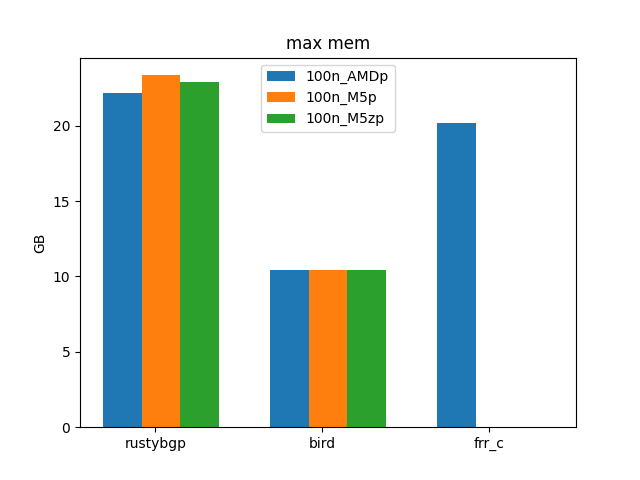
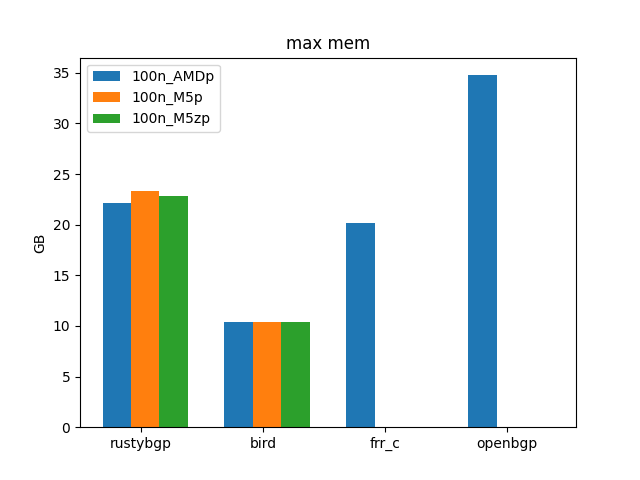
updated with openbgpd and bird at 300 for bgp5 post;

diff --git a/_drafts/2021-10-101-bgp-perf5-1000-internet-neighbors.md b/_drafts/2021-10-101-bgp-perf5-1000-internet-neighbors.md
@@ -46,6 +46,10 @@ BIRD
 
 ![prefixes received at monitor](/assets/images/2021-10-bgp-5/bird_bgpdump2_800000_100_mon_received.png)
 
+OpenBGPD
+
+![prefixes received at monitor](/assets/images/2021-10-bgp-5/openbgp_bgpdump2_800000_100_mon_received.png)
+
 RustyBGP
 
 ![prefixes received at monitor](/assets/images/2021-10-bgp-5/rustybgp_bgpdump2_800000_100_mon_received.png)
@@ -63,10 +67,16 @@ BIRD
 
 ![neighbors full received routes](/assets/images/2021-10-bgp-5/bird_bgpdump2_800000_100_neighbors.png)
 
+OpenBGPD
+
+![neighbors full received routes](/assets/images/2021-10-bgp-5/openbgp_bgpdump2_800000_100_neighbors.png)
+
 RusytBGP
 
 ![neighbors full received routes](/assets/images/2021-10-bgp-5/rustybgp_bgpdump2_800000_100_neighbors.png)
 
+
+It's interesting how OpenBGP looks compared to BIRD and FRR. None of it's neighbors don't complete until almost at the end
 
 RustyBGP looks different again. It's amazing that it can receive full routes for some neighbors within about 10 seconds. 
 
@@ -80,6 +90,10 @@ FRR
 BIRD
 
 ![cpu](/assets/images/2021-10-bgp-5/bird_bgpdump2_800000_100_cpu.png)
+
+OpenBGPD
+
+![cpu](/assets/images/2021-10-bgp-5/openbgp_bgpdump2_800000_100_cpu.png)
 
 RustyBGP
 
@@ -97,6 +111,10 @@ BIRD
 
 ![memory used](/assets/images/2021-10-bgp-5/bird_bgpdump2_800000_100_mem_used.png)
 
+OpenBGPD
+
+![memory used](/assets/images/2021-10-bgp-5/openbgp_bgpdump2_800000_100_mem_used.png)
+
 RustyBGP
 
 ![memory used](/assets/images/2021-10-bgp-5/rustybgp_bgpdump2_800000_100_mem_used.png)
@@ -112,6 +130,10 @@ FRR
 BIRD
 
 ![% idle of machine](/assets/images/2021-10-bgp-5/bird_bgpdump2_800000_100_machine_idle.png)
+
+OpenBGPD
+
+![% idle of machine](/assets/images/2021-10-bgp-5/openbgp_bgpdump2_800000_100_machine_idle.png)
 
 RustyBGP
 
@@ -166,14 +188,8 @@ The % idle of the machine. This shows that there are plenty of CPU resources ava
 ![% idle of machine](/assets/images/2021-10-bgp-5/frr_c_bgpdump2_800000_150_machine_idle.png)
 
 I don't see anything interesting in these graphs.
-# BIRD
-BIRD succeeds at 200 neighbors, and fails at 300.  It gets to the place in which it does not increment either more prefixes at the monitor nor more neighbors finished for 120 seconds. So it just gets stuck, right around 215 neighbors.
-
-```bash
-bird,bird,v2.0.8-59-gf761be6b,300,800000,792000,878273,0,6975,3,6972,7148.89,102,27.503,85,91.046,-s,2021-10-08,48,184.71GB,0,FAILED,FAILED: stuck received count 878273 neighbors_checked 216
-```
-
-Can we see anything interesting in the benchmark graphs?
+## BIRD
+BIRD succeeds at 200 neighbors, and fails at 300.  Well, it gets stuck not incrementing either the prefixes received at the monitor or the number of neighbors completed. I usually have a 120s timeout, but I changed it to one hour. As you can see on the graphs, it got stuck for almost an hour at about 225 neighbors. I don't know what it was doing at that point in time. The total time was 15781s, more than 4 hours. That doesn't really count as success.
 
 ![prefixes received at monitor](/assets/images/2021-10-bgp-5/bird_bgpdump2_800000_300_mon_received.png)
 
@@ -185,10 +201,18 @@ Can we see anything interesting in the benchmark graphs?
 
 ![% idle of machine](/assets/images/2021-10-bgp-5/bird_bgpdump2_800000_300_machine_idle.png)
 
+Other than the neighbor graph showing it getting stuck for almost an hour, nothing much interesting going on here.
+
+
+## BIRD separate table per neighbor
+
+
+## OpenBGPD
 ## RustyBGP
 
-Some of the tests I ran into a problem I mentioned in the previous blog post: every second bgperf collects information from the target about how many prefixes have been received by each neighbor. After a while, in some of the tests rustybgp stops responding to that data, which completely freaks out bgperf and it fails. I can't completely quantify when and why this happens, but it does and is a problem at least for testing.
+I successfully tested RustyBGP with 500 neighbors on the M5.xlarge24 which has 96 cores and 384 GB of RAM. More neighbors than that ran into a problem I mentioned in the previous blog post: every second bgperf collects information from the target about how many prefixes have been received by each neighbor. After a while, in some of the tests rustybgp stops responding to that data, which completely freaks out bgperf and it fails. I don't know if the problem is that there isn't enough CPU resources or something else. In other words, if rustyBGP had it's own dedicated resource and bgpdump2 it's own dedicated resources would this break? I can't be sure but I kind of think so since bgpdump2 does it's greatest work at the beginning when it's starting up.
 
+at 500, it finishes in about 1700 seconds, which is not that much longer than the other three took to do 100 neighbors.
 
 monitor 
 
@@ -210,9 +234,9 @@ The % idle of the machine. This shows that there are plenty of CPU resources ava
 
 
 # Conclusion
-Probably, it's possible to measure these stacks with BGPerf at 1000 neighbors of internet routes. I ran out of memory at 384 GB. There are instances available with more memory than that. 
+Possibly, though I didn't get past 500 neighbors. Likely that 1000 neighbors would have needed more memory, and that is available on other EC2 instances. I'm not sure that there are other instances that have more CPU. At some point it would be necessary to figure out mutli-host bgperf.
 
-However, only RustyBGP can can near that level. And it requires a lot of memory. Both for RustyBGP and for the testers
+However, only RustyBGP can get near that level. And it requires a lot of memory. Both for RustyBGP and for the testers
 
 FRR breaks first, at about 150 neighbors. Next is BIRD at between 200 and 250 neighbors.
 
